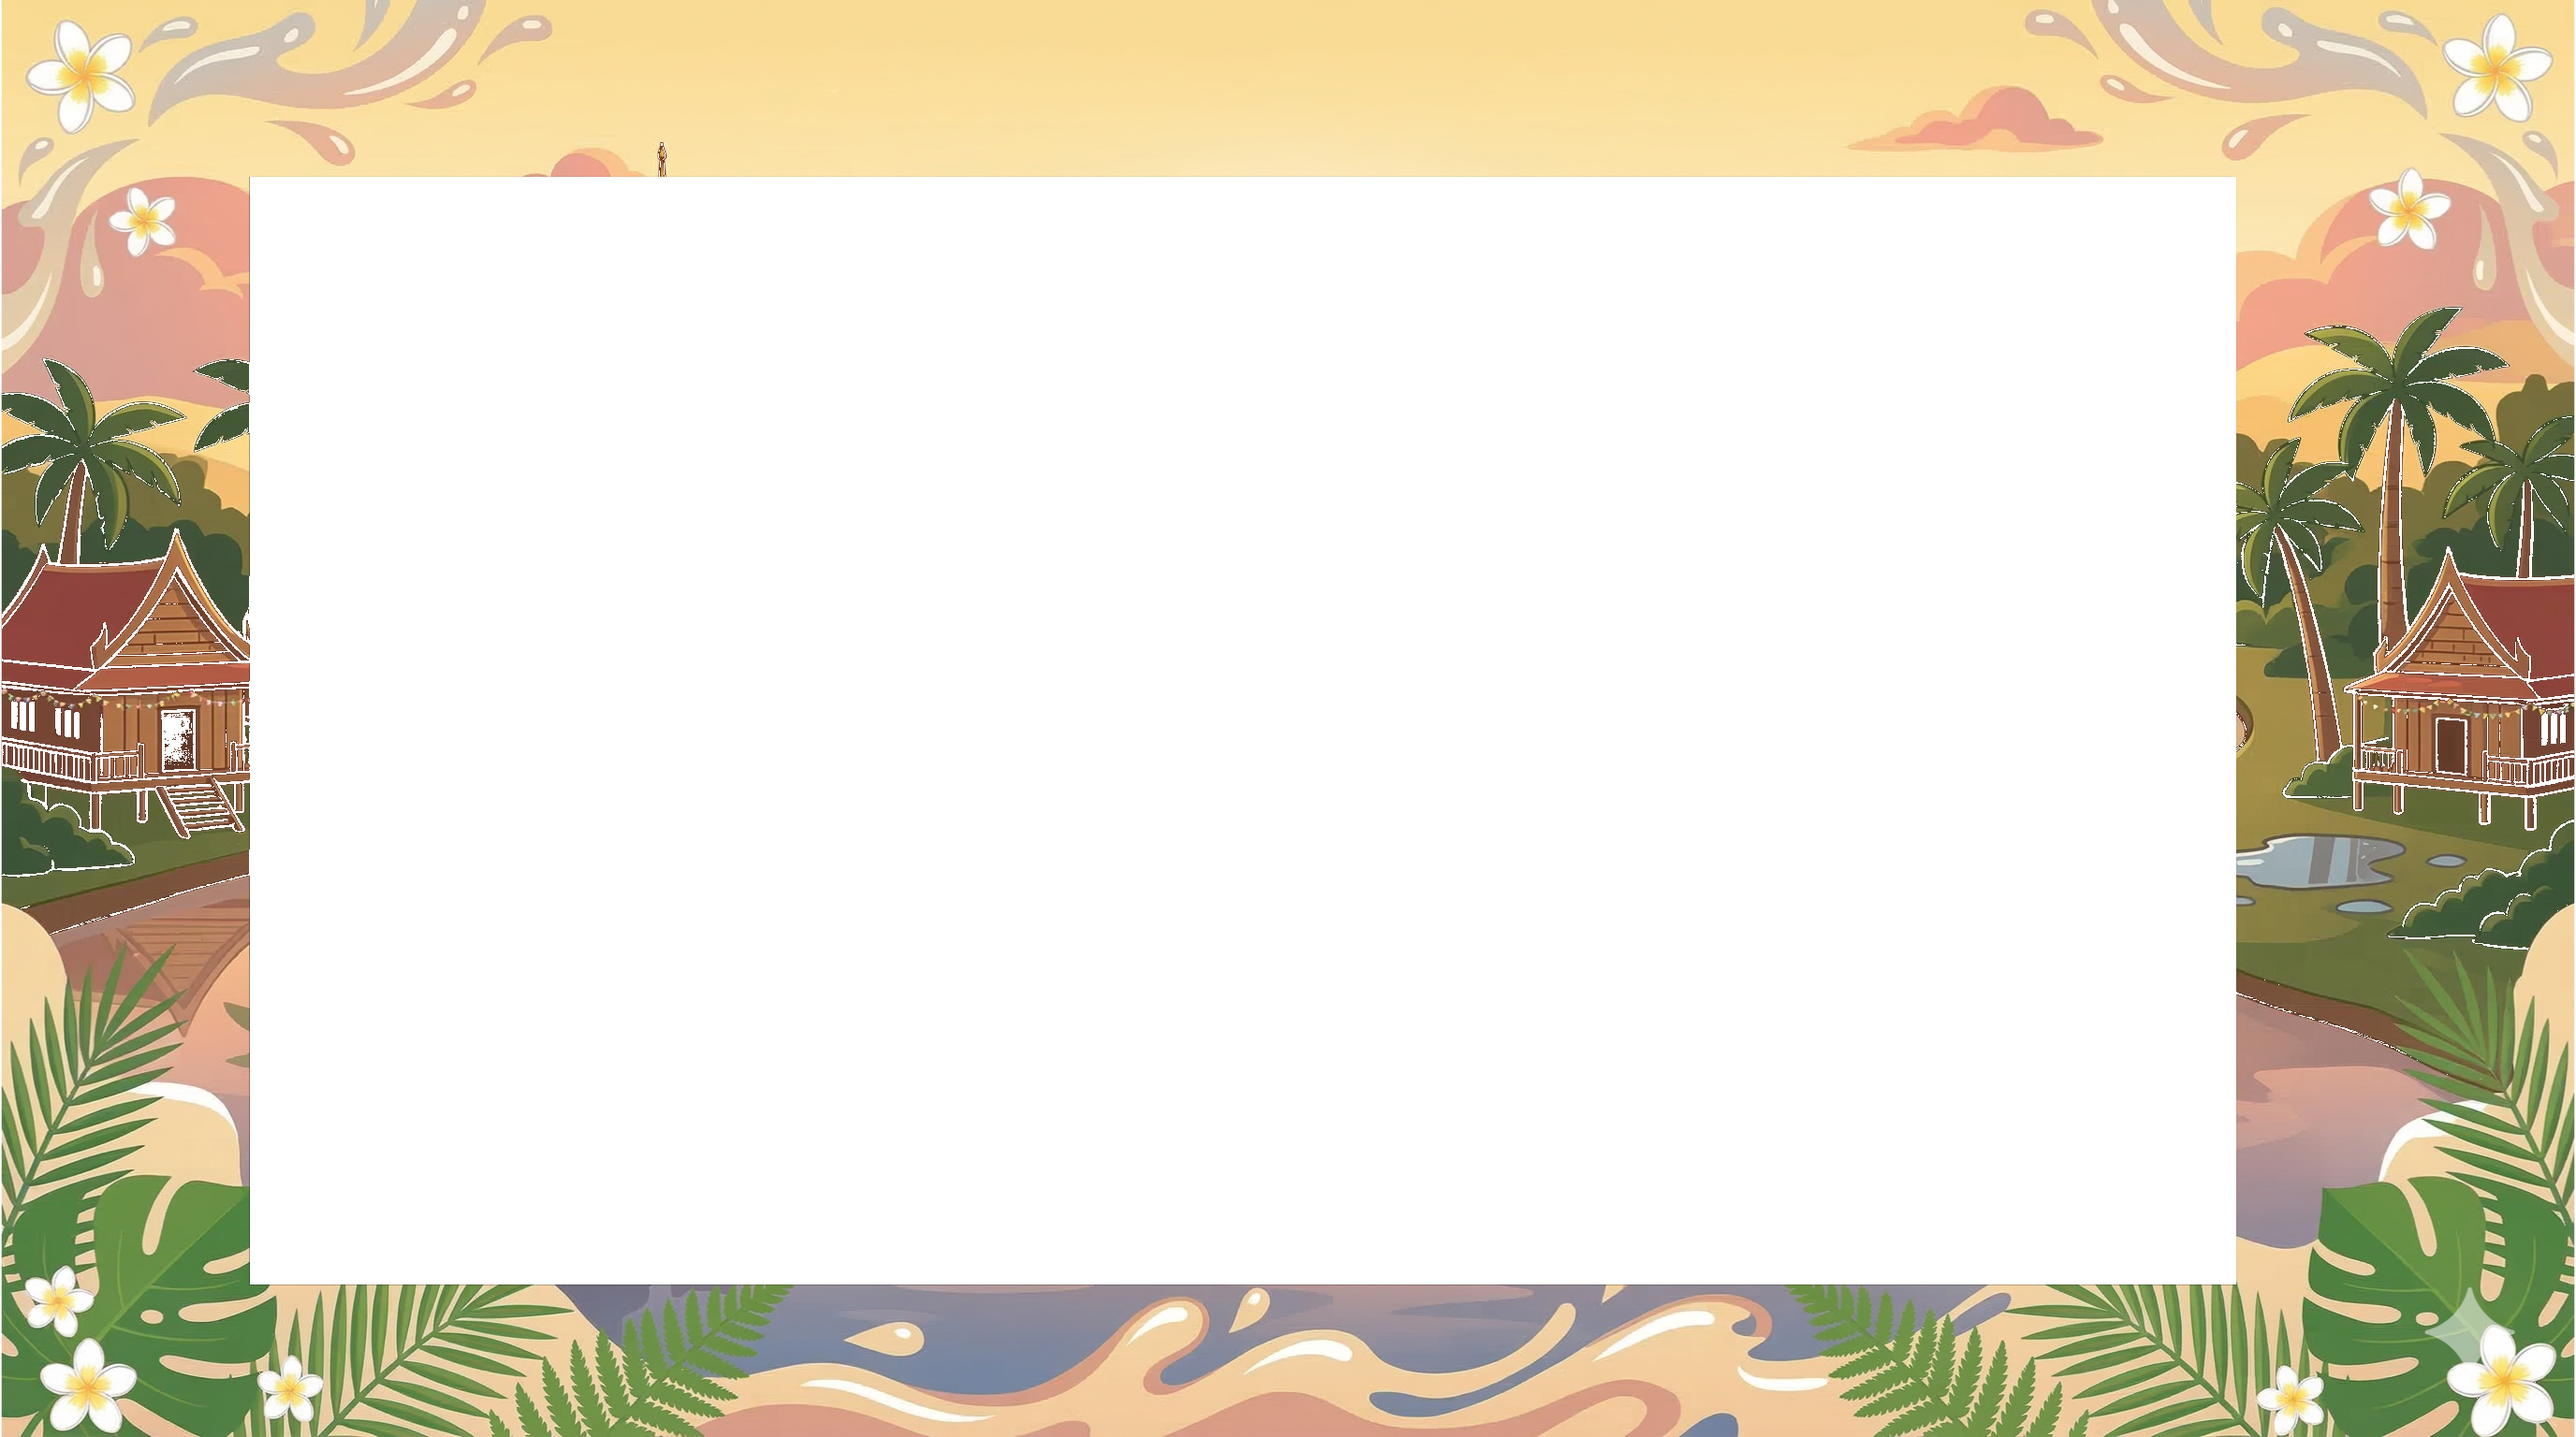
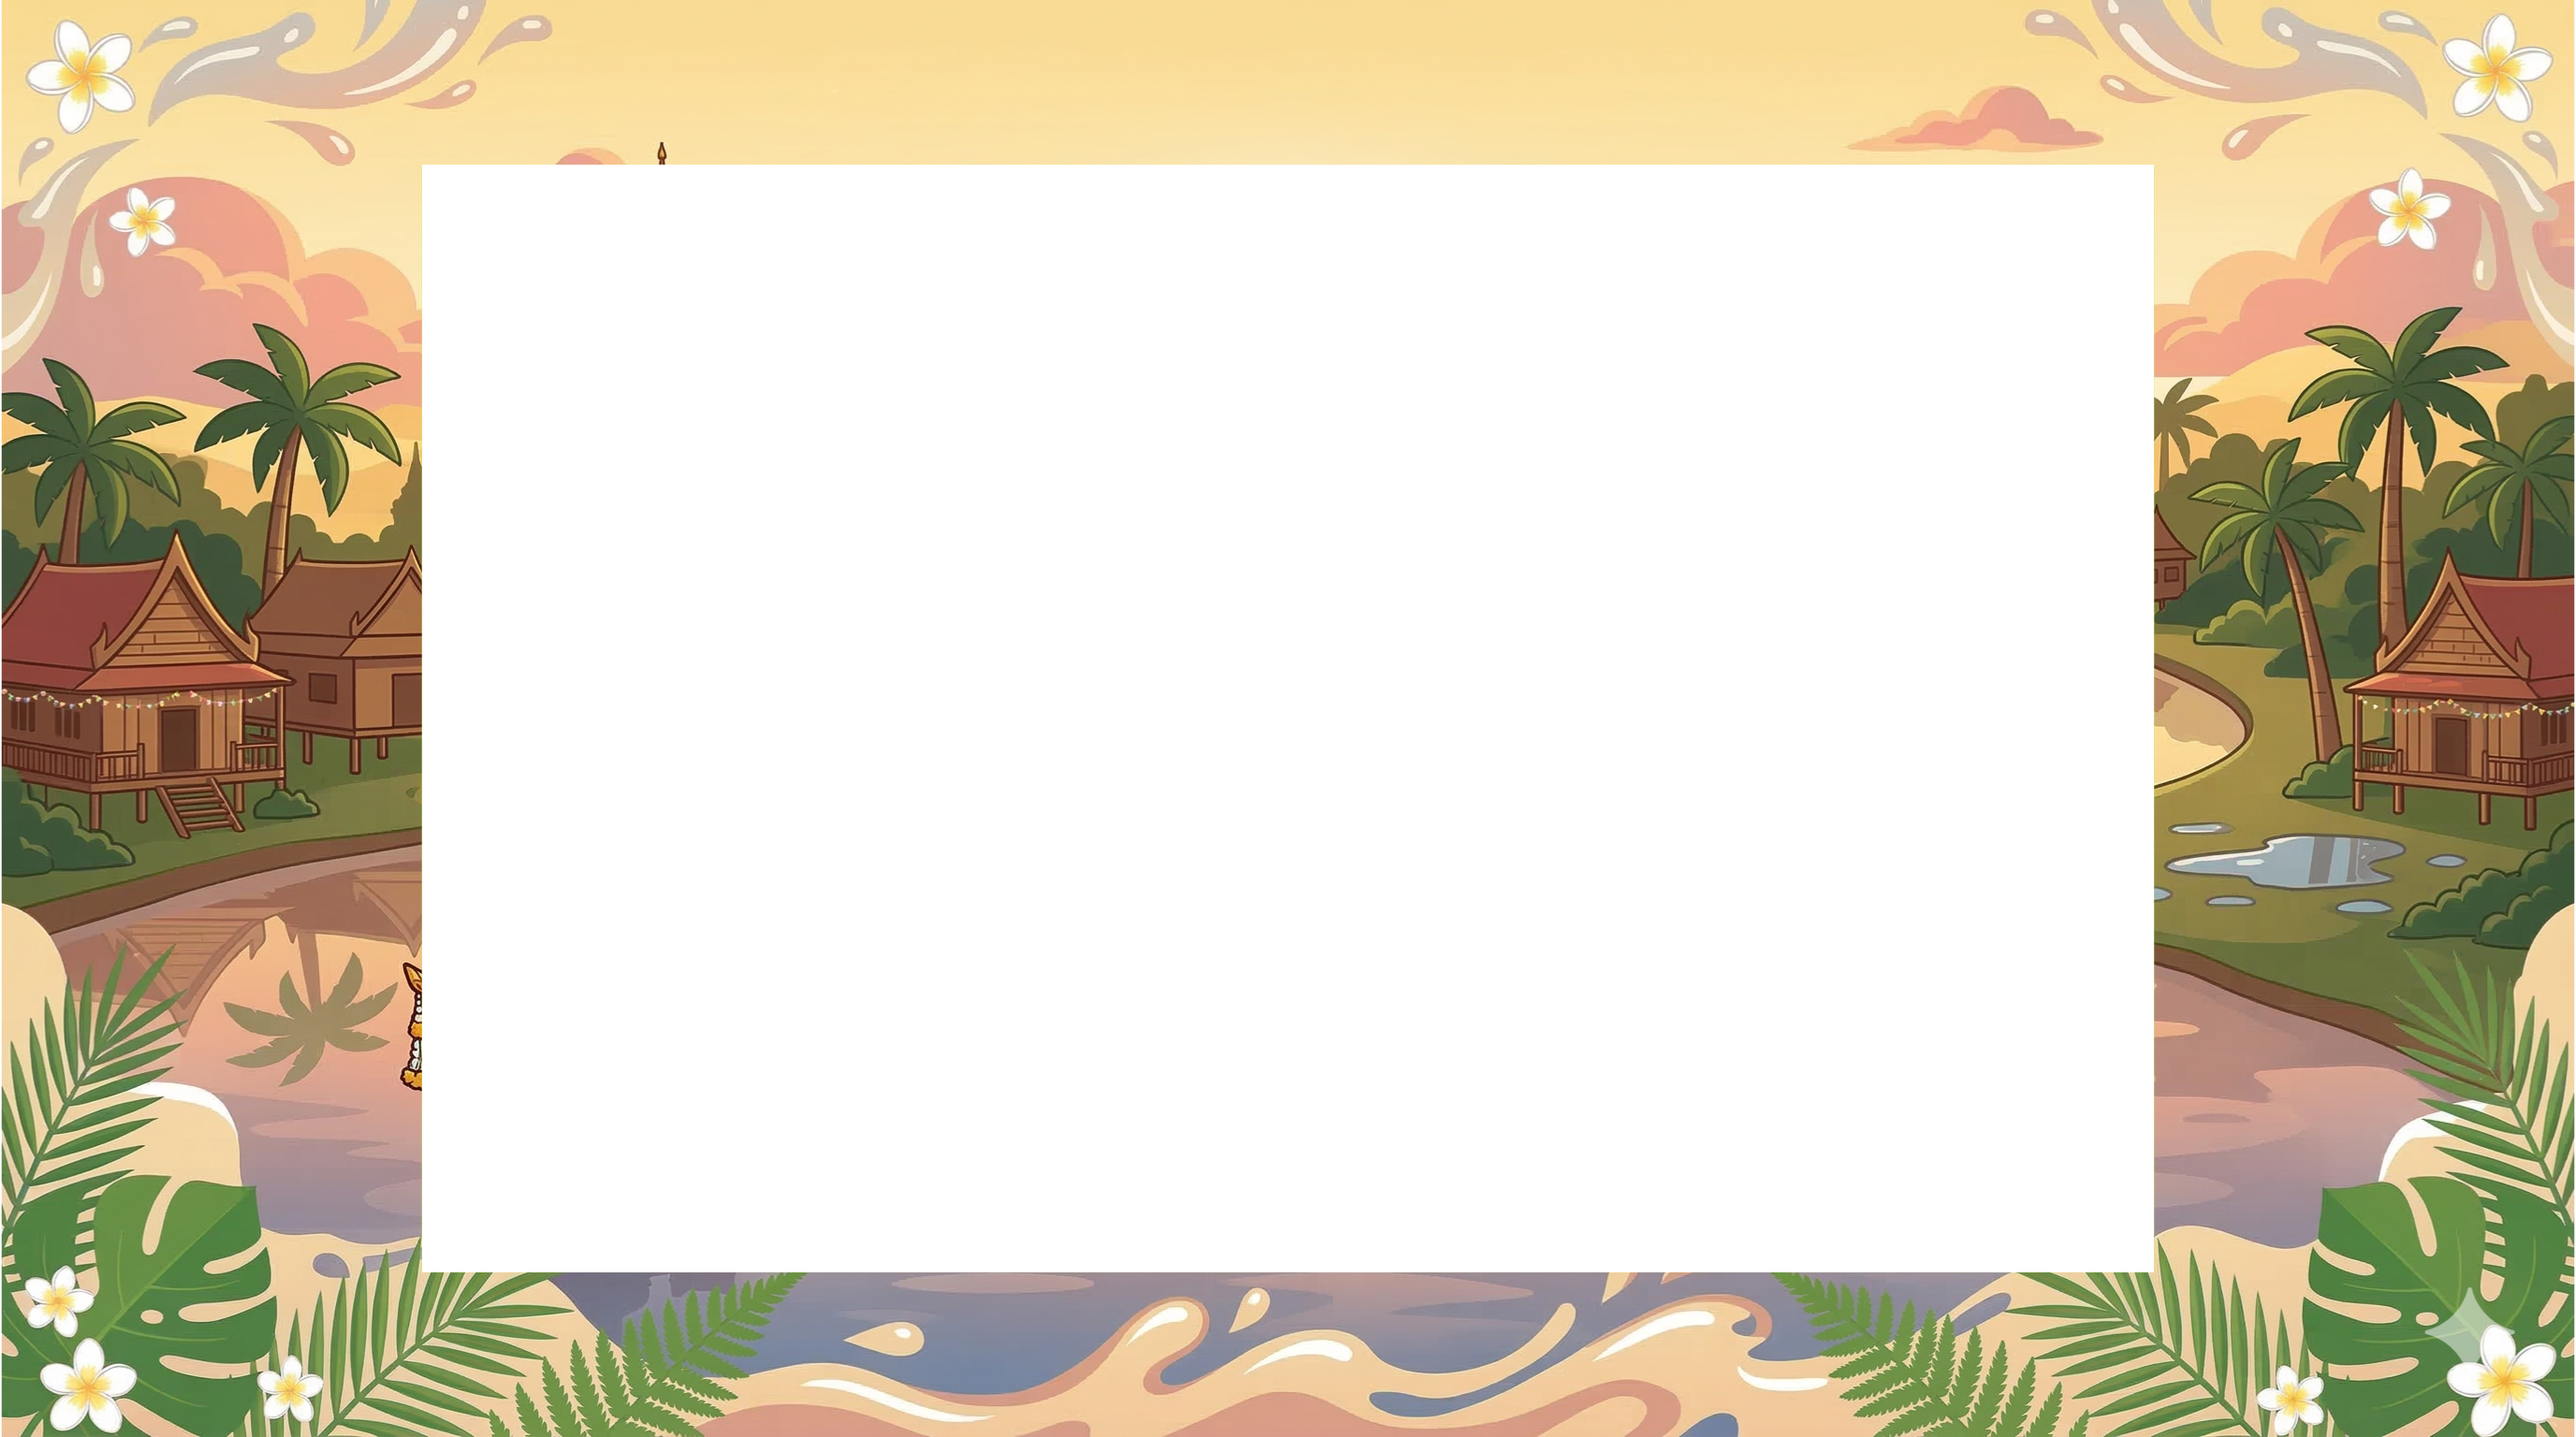
Fix: photo alignment in print page and frame proportion

diff --git a/src/components/ResultScreen.tsx b/src/components/ResultScreen.tsx
@@ -61,12 +61,12 @@ const ResultScreen: React.FC<ResultScreenProps> = ({
 
   const generateGif = async (photoUrls: string[], frameUrl: string, bursts?: string[][]): Promise<Blob> => {
     const { createGIF } = await import('gifshot');
-    // Strip layout: 1800×1200 → 720×480 (0.4×)
-    const w = 720, h = 480;
-    const slotW = 334, slotH = 214;
+    // Strip layout: 2752x1536 scaled down to ~860x480 for GIF
+    const w = 860, h = 480;
+    const slotW = 399, slotH = 214;
     const coords = [
-      { x: 18, y: 18 }, { x: 368, y: 18 },
-      { x: 18, y: 248 }, { x: 368, y: 248 },
+      { x: 21, y: 18 }, { x: 439, y: 18 },
+      { x: 21, y: 248 }, { x: 439, y: 248 },
     ];
     const frameImg = await loadImage(frameUrl);
 
@@ -128,22 +128,22 @@ const ResultScreen: React.FC<ResultScreenProps> = ({
 
       // 1. Create Final Photo Strip
       const canvas = document.createElement('canvas');
-      canvas.width = 1800; canvas.height = 1200;
+      canvas.width = 2752; canvas.height = 1536;
       const ctx = canvas.getContext('2d')!;
       ctx.fillStyle = '#ffffff';
-      ctx.fillRect(0, 0, 1800, 1200);
+      ctx.fillRect(0, 0, 2752, 1536);
 
-      const slotW = 835, slotH = 535;
+      const slotW = 1277, slotH = 685;
       const coords = [
-        { x: 45, y: 45 }, { x: 920, y: 45 },
-        { x: 45, y: 620 }, { x: 920, y: 620 }
+        { x: 69, y: 58 }, { x: 1407, y: 58 },
+        { x: 69, y: 794 }, { x: 1407, y: 794 }
       ];
 
       const photoImgs = await Promise.all(photos.map(loadImage));
       photoImgs.forEach((img, i) => drawImageCover(ctx, img, coords[i].x, coords[i].y, slotW, slotH));
 
       const frameImg = await loadImage(selectedFrame!);
-      ctx.drawImage(frameImg, 0, 0, 1800, 1200);
+      ctx.drawImage(frameImg, 0, 0, 2752, 1536);
 
       const finalPhotoBlob = await new Promise<Blob>((resolve) =>
         canvas.toBlob((b) => resolve(b!), 'image/jpeg', 0.92)
@@ -264,9 +264,29 @@ const ResultScreen: React.FC<ResultScreenProps> = ({
           </div>
         )}
 
-        <div className="qr-section glass-card" style={{ display: downloadPageUrl ? 'flex' : 'none', flexDirection: 'column', alignItems: 'center' }}>
+        <div className="qr-section glass-card" style={{ display: downloadPageUrl ? 'flex' : 'none', flexDirection: 'column', alignItems: 'center', margin: 'auto', gridRowStart: 2, gridRowEnd: 4}}>
           <p style={{ fontWeight: 700, color: '#1E3A5F', marginBottom: '8px', display: 'flex', alignItems: 'center', gap: '8px' }}><QrCode size={18} /> Scan for All Memories</p>
           <div className="qr-box"><canvas ref={qrRef} /></div>
+          {downloadPageUrl && (
+            <a 
+              href={downloadPageUrl} 
+              target="_blank" 
+              rel="noopener noreferrer" 
+              style={{ 
+                marginTop: '12px', 
+                color: '#3B82F6', 
+                fontSize: '0.9rem', 
+                wordBreak: 'break-all', 
+                textAlign: 'center', 
+                textDecoration: 'none', 
+                fontWeight: 600,
+                maxWidth: '100%',
+                padding: '0 10px'
+              }}
+            >
+              {downloadPageUrl}
+            </a>
+          )}
           <p className="expiry-note">Save within 24 hours — files expire after that!</p>
         </div>
 

diff --git a/src/index.css b/src/index.css
@@ -229,7 +229,7 @@ h1, h2, h3, .shot-label, .frame-label {
 }
 #video-wrapper {
     position: relative; width: 88%; max-width: 860px;
-    aspect-ratio: 3/2; border-radius: 24px; overflow: hidden;
+    aspect-ratio: 1277 / 685; border-radius: 24px; overflow: hidden;
     border: 12px solid var(--white);
     box-shadow: 0 12px 40px rgba(0,0,0,0.1), 0 2px 8px rgba(0,0,0,0.06);
     background: #E0F2FE;
@@ -460,12 +460,19 @@ video { width: 100%; height: 100%; object-fit: cover; transform: scaleX(-1); }
     .print-area .result-photo {
         grid-column: unset !important;
         border: 10px solid white !important;
-        box-shadow: 0 6px 28px rgba(0,0,0,0.14) !important;
-        border-radius: 16px !important;
-        max-width: 80%;
+        box-shadow: 0 4px 15px rgba(0,0,0,0.1) !important;
+        border-radius: 12px !important;
+        max-width: 95%;
+        width: 100%;
+        overflow: visible;
+        background: white;
     }
     .print-area .result-photo img {
-        max-height: 52vh; width: auto !important; object-fit: contain;
+        width: 100% !important;
+        height: auto !important;
+        max-height: 70vh;
+        object-fit: contain;
+        display: block;
     }
 
     .print-footer {

diff --git a/src/components/CameraScreen.tsx b/src/components/CameraScreen.tsx
@@ -126,7 +126,7 @@ const CameraScreen: React.FC<CameraScreenProps> = ({ isActive, selectedFrame, on
     return new Promise(resolve => {
       const v = videoRef.current!;
       const canvas = document.createElement('canvas');
-      canvas.width = 1260; canvas.height = 810;
+      canvas.width = 1277; canvas.height = 685;
       const ctx = canvas.getContext('2d')!;
       ctx.setTransform(-1, 0, 0, 1, canvas.width, 0);
       drawImageCover(ctx, v, 0, 0, canvas.width, canvas.height);
@@ -141,7 +141,7 @@ const CameraScreen: React.FC<CameraScreenProps> = ({ isActive, selectedFrame, on
       const url = await new Promise<string>(resolve => {
         const v = videoRef.current!;
         const canvas = document.createElement('canvas');
-        canvas.width = 1260; canvas.height = 810;
+        canvas.width = 1277; canvas.height = 685;
         const ctx = canvas.getContext('2d')!;
         ctx.setTransform(-1, 0, 0, 1, canvas.width, 0);
         drawImageCover(ctx, v, 0, 0, canvas.width, canvas.height);
